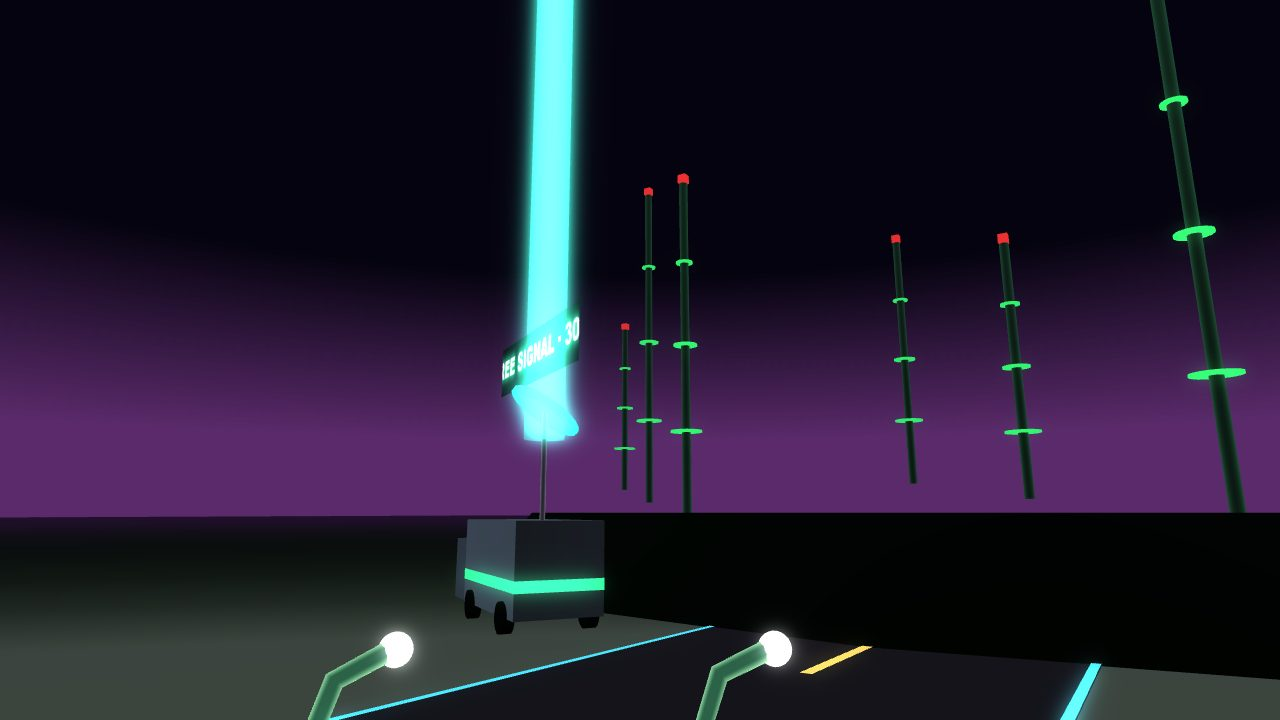
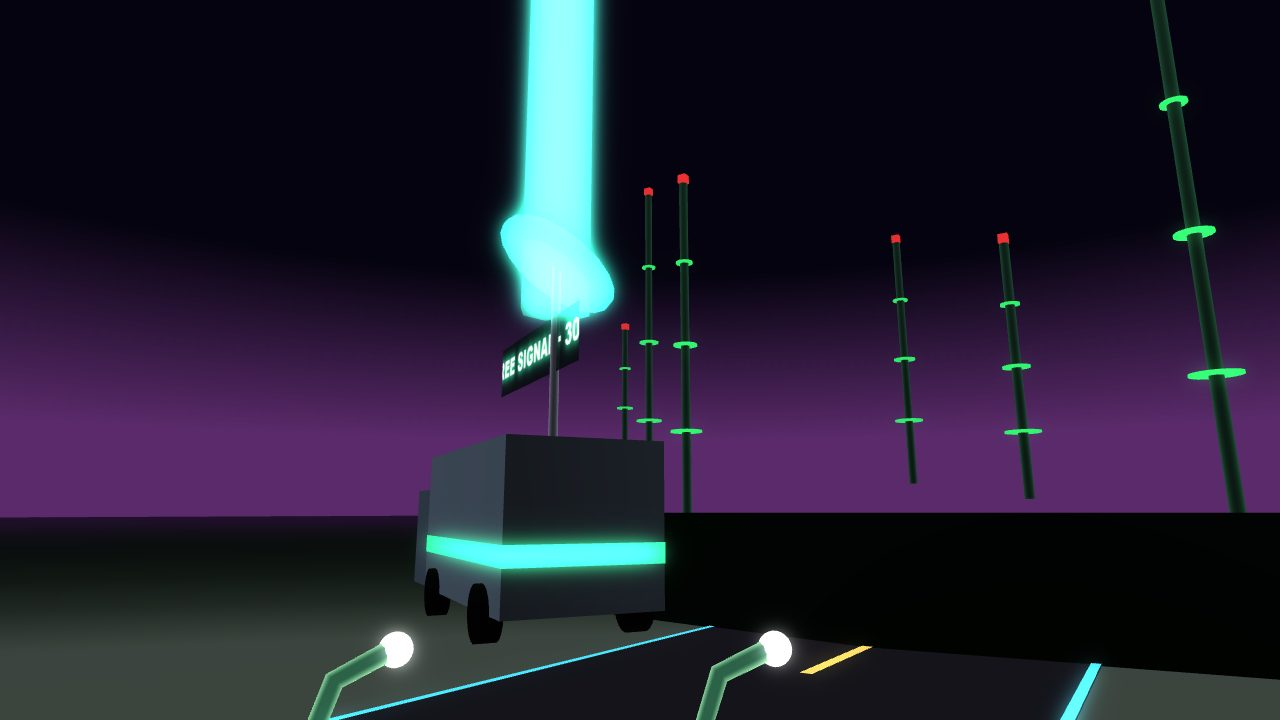
Levels built from phrases: open, builds, the choice, rests, peaks, the return and the finale, each with variants; length and difficulty grow gently with the campaign (early worlds rest more, later ones build longer and reach the harder set pieces); fork, both gates and finale always present. New roa

Changed region(s): [[0.3125, 0.0, 0.5312, 0.9167]]

diff --git a/web/babylon/director.js b/web/babylon/director.js
@@ -68,27 +68,35 @@ const KEYABLE = ['WINGS', 'MAGNET', 'SHIELD', 'SPEED', 'LENS'];          // keys
 /* the level's script: an ordered list of beats the game's level script builds one after another.
    kinds: warm, speed, threat, breath, mix, pressure, lensbreath, gearpair, finale (the game's own sections), set {id}, fork {a, b}, key {need} */
 export function planPlay({ seed, lvIdx, setTiers, plainSets, hardSets }) {
-  const R = rng(seed ^ 0xd1ec), pick = (a) => a[Math.floor(R() * a.length)], usedSets = new Set();
-  const setOf = (pool) => { const free = pool.filter((id) => !usedSets.has(id) && (setTiers[id] ?? 0) <= lvIdx); const id = free.length ? pick(free) : pick(pool); usedSets.add(id); return { k: 'set', id }; };
-  const keys = KEYABLE.filter((n) => (GATETIER[n] || 0) <= Math.max(1, lvIdx)), shuffled = keys.slice().sort(() => R() - .5);
+  /* PHRASES (owner 2026-11-27: "use phrases for paths, procedurally generated"; the old fixed 17-beat template made every level feel the same).
+     A level is an arc of phrases: OPEN, then BUILDs, a CHOICE (the fork and its first gate), RESTs between, a PEAK or two, the RETURN (the second gate)
+     and the FINALE. Each phrase has several variants; which ones, how many and in what order come from the seed. Early worlds rest more and get the
+     plain set pieces; later worlds build longer and get the harder ones, never brutal (it's meant to be relaxing). The fork, both gates and the finale always come. */
+  const R = rng(seed ^ 0xd1ec), pick = (a) => a[Math.floor(R() * a.length)], usedSets = new Set(), L = Math.max(0, Math.min(7, lvIdx)), hardK = L / 7;
+  const setOf = (pool) => { const free = pool.filter((id) => !usedSets.has(id) && (setTiers[id] ?? 0) <= Math.max(1, L)); const id = free.length ? pick(free) : pick(pool); usedSets.add(id); return { k: 'set', id }; };
+  const keys = KEYABLE.filter((n) => (GATETIER[n] || 0) <= Math.max(1, L)), shuffled = keys.slice().sort(() => R() - .5);
   const [ka, kb] = shuffled.length >= 2 ? shuffled : ['SPEED', 'WINGS'];
-  const late = Object.keys(GATESET).filter((n) => n !== ka && n !== kb && (GATETIER[n] || 0) <= Math.max(1, lvIdx)); const kc = late.length ? pick(late) : null;
+  const late = Object.keys(GATESET).filter((n) => n !== ka && n !== kb && (GATETIER[n] || 0) <= Math.max(1, L)); const kc = L >= 1 && late.length ? pick(late) : null;
+  const plainOrHard = () => setOf(R() < .25 + .5 * hardK ? hardSets : plainSets);
+  const PH = {
+    open: [() => [{ k: 'warm' }, setOf(plainSets)], () => [{ k: 'warm' }, { k: 'speed' }], () => [{ k: 'warm' }, { k: 'breath' }, setOf(plainSets)]],
+    build: [() => [{ k: 'speed' }, plainOrHard()], () => [{ k: 'threat' }, { k: 'mix' }], () => [{ k: 'mix' }, plainOrHard()], () => [plainOrHard(), { k: 'threat' }], () => [{ k: 'speed' }, { k: 'threat' }, plainOrHard()]],
+    rest: [() => [{ k: 'breath' }], () => [{ k: 'lensbreath' }], () => [{ k: 'breath' }, { k: 'lensbreath' }]],
+    peak: [() => [{ k: 'pressure' }, setOf(hardSets)], () => [setOf(hardSets), { k: 'gearpair' }], () => [{ k: 'pressure' }, { k: 'gearpair' }], () => [setOf(L >= 2 ? hardSets.concat(['remix']) : hardSets)]],
+  };
+  const take = (name) => pick(PH[name])();
   const S = [];
-  S.push({ k: 'warm' });
-  S.push(setOf(plainSets));
-  S.push({ k: R() < .5 ? 'speed' : 'threat' });
+  S.push(...take('open'));
+  const builds1 = 1 + (L >= 3 ? 1 : 0) + (R() < .3 ? 1 : 0); for (let i = 0; i < builds1; i++) { S.push(...take('build')); if (L <= 2 || R() < .45) S.push(...take('rest')); }
   S.push({ k: 'fork', a: ka, b: kb });                                   // the choice
-  S.push({ k: 'set', id: GATESET[R() < .5 ? ka : kb], gate: true });    // the first of its two gates comes soon
-  S.push({ k: 'breath' });
-  S.push({ k: R() < .5 ? 'mix' : 'threat' });
-  S.push(setOf(lvIdx >= 2 && R() < .5 ? ['remix'] : plainSets));
-  S.push({ k: 'pressure' });
-  const first = S.find((b) => b.gate).id, second = GATESET[first === GATESET[ka] ? kb : ka]; S.push({ k: 'set', id: second, gate: true });   // and the other gate: the key you left behind
-  S.push({ k: 'lensbreath' });
-  if (kc) { if (KEYABLE.includes(kc) && R() < .7) S.push({ k: 'key', need: kc, side: R() < .5 ? -1 : 1 }); S.push(setOf(hardSets)); S.push({ k: 'set', id: GATESET[kc], gate: true }); }
-  else S.push(setOf(hardSets));
-  S.push({ k: 'gearpair' });
-  S.push(setOf(hardSets.concat(lvIdx >= 2 ? ['remix'] : [])));
+  S.push({ k: 'set', id: GATESET[R() < .5 ? ka : kb], gate: true });    // its first gate comes soon
+  S.push(...take('rest'));
+  const builds2 = 1 + (L >= 4 ? 1 : 0); for (let i = 0; i < builds2; i++) S.push(...take(R() < .35 + .4 * hardK ? 'peak' : 'build'));
+  if (L <= 3 || R() < .5) S.push(...take('rest'));
+  const first = S.find((b) => b.gate).id, second = GATESET[first === GATESET[ka] ? kb : ka]; S.push({ k: 'set', id: second, gate: true });   // the return: the key you left behind
+  if (kc) { if (KEYABLE.includes(kc) && R() < .7) S.push({ k: 'key', need: kc, side: R() < .5 ? -1 : 1 }); S.push(...take('build')); S.push({ k: 'set', id: GATESET[kc], gate: true }); }
+  S.push(...take('rest'));
+  S.push(...take('peak'));
   S.push({ k: 'finale' });
   return { beats: S, keys: [ka, kb], late: kc };
 }

diff --git a/web/babylon/sets.js b/web/babylon/sets.js
@@ -50,7 +50,7 @@
       sign(3, 1, [-3.5, 9.3, 2], (g, w, h) => { g.fillStyle = '#000'; g.fillRect(0, 0, w, h); neon(g, '● ON AIR', w / 2, h / 2, 34, '#ff3040'); }); return { h: 20, w: 40 }; },
     /* SUGARFALL: the Comfort Belt. A row of rented pastel houses at 4 pm, a picket fence, the laugh-track tower and a billboard that never changes. */
     comfort(B, scene, R) { const { mat, box, cyl, sign, neon } = kit(B, scene, R); const P = [[1, .72, .82], [.72, .9, 1], [.8, 1, .8], [1, .92, .66], [.88, .78, 1]];
-      for (let i = 0; i < 5; i++) { const x = -22 + i * 9, c = P[i]; box(7, 4.5, 6, [x, 2.25, 6], c); cyl(7.4, 6.4, [x, 5.6, 6], [c[0] * .7, c[1] * .55, c[2] * .65], null, [0, 0, Math.PI / 2], 0, 3);
+      for (let i = 0; i < 5; i++) { const x = -22 + i * 9, c = P[i]; box(7, 4.5, 6, [x, 2.25, 6], c); { const rc = [c[0] * .62, c[1] * .45, c[2] * .55]; box(4.3, .28, 6.8, [x - 1.75, 5.6, 6], rc, null, [0, 0, .62]); box(4.3, .28, 6.8, [x + 1.75, 5.6, 6], rc, null, [0, 0, -.62]); box(.9, 1.6, .9, [x + 2, 6.6, 7], [.75, .7, .7]); }          /* (gable roofs and a chimney, instead of the blocky prism) */
         box(1.2, 2, .1, [x, 1, 2.95], [.45, .3, .25]); box(1.6, 1.2, .1, [x - 2.2, 2.6, 2.95], [1, .95, .7], 'glow'); box(1.6, 1.2, .1, [x + 2.2, 2.6, 2.95], [1, .95, .7], 'glow'); }
       for (let i = 0; i < 46; i++) box(.18, 1, .08, [-26 + i, .5, 1.6], [1, 1, 1]); box(46, .12, .08, [-3.5, .8, 1.6], [1, 1, 1]);
       for (const x of [-27, 20]) { cyl(4, .3, [x, 2, -1], [1, 1, 1]); const pop = B.MeshBuilder.CreateSphere('pop', { diameter: 2.6, segments: 16 }, scene); pop.parent = R; pop.position.set(x, 4.8, -1); pop.material = mat([1, .4, .7], 'glow'); }
@@ -79,7 +79,7 @@
     /* COLD RACK: Free Signal. Mast Hill's relay masts in rows, and WREN's pirate van on the ridge throwing an unfiltered beam into the sky. */
     signal(B, scene, R) { const { box, cyl, sign, neon } = kit(B, scene, R); const MAST = [.3, .5, .4], G = [.2, 1, .45];
       cyl(18, 90, [0, -6, 40], [.04, .12, .06], null, null, 60); for (let i = 0; i < 9; i++) { const x = -32 + i * 8, z = 26 + (i % 3) * 8, h = 14 + (i % 4) * 3, y = 2.5 + (i % 3) * 1.2; cyl(h, .5, [x, y + h / 2, z], MAST); for (let k = 1; k < 4; k++) cyl(.12, 2.2 - k * .4, [x, y + h * k / 4, z], G, 'glow'); box(.5, .5, .5, [x, y + h + .3, z], [1, .2, .2], 'glow'); }
-      const V = new B.TransformNode('van', scene); V.parent = R; V.position.set(9, 0, 6); V.rotation.y = -.5; const vk = kit(B, scene, V); vk.box(5, 2.4, 2.4, [0, 1.6, 0], [.42, .46, .5]); vk.box(1.6, 1.8, 2.3, [3.1, 1.3, 0], [.36, .4, .44]); vk.box(5.02, .3, 2.42, [0, 1.2, 0], [.2, 1, .6], 'glow'); for (const [x, z] of [[1.6, 1.15], [-1.6, 1.15], [1.6, -1.15], [-1.6, -1.15]]) vk.cyl(.3, .8, [x, .4, z], [.05, .05, .06], null, [Math.PI / 2, 0, 0]);
+      const V = new B.TransformNode('van', scene); V.parent = R; V.position.set(9, 0, 6); V.rotation.y = -.5; V.scaling.setAll(1.7);          /* (bigger: it was lost in the masts) */ const vk = kit(B, scene, V); vk.box(5, 2.4, 2.4, [0, 1.6, 0], [.42, .46, .5]); vk.box(1.6, 1.8, 2.3, [3.1, 1.3, 0], [.36, .4, .44]); vk.box(5.02, .3, 2.42, [0, 1.2, 0], [.2, 1, .6], 'glow'); for (const [x, z] of [[1.6, 1.15], [-1.6, 1.15], [1.6, -1.15], [-1.6, -1.15]]) vk.cyl(.3, .8, [x, .4, z], [.05, .05, .06], null, [Math.PI / 2, 0, 0]);
       vk.cyl(3, .15, [-1, 4.3, 0], [.6, .6, .65]); vk.cyl(.1, 2.2, [-1, 5.8, 0], [.2, 1, .8], 'glow', [.6, 0, 0]); const bm = vk.cyl(60, 1.2, [-1, 35, 0], [.3, 1, .85], 'glow', null, null, 8); bm.material.alpha = .35;
       vk.box(1.6, .6, .05, [3.92, 1.6, 0], [.3, 1, .8], 'glow', [0, Math.PI / 2, 0]);
       sign(7, 1.6, [9, 7.6, 6], (g, w, h) => { g.fillStyle = 'rgba(0,10,6,.8)'; g.fillRect(0, 0, w, h); neon(g, 'FREE SIGNAL · 30 S', w / 2, h / 2, 52, '#3affb5'); }, [0, -.5, 0]); return { h: 40, w: 70 }; },

diff --git a/web/babylon/index.html b/web/babylon/index.html
@@ -55,7 +55,7 @@ import { createIntro } from './intro.js?v=20261127c';          /* (bump on every
 import { createSets } from './chains.js?v=20261127c';
 import { createSpiders } from './spiders.js?v=20261127j';
 import { createBeasts } from './beasts.js?v=20261127g';
-import { planRoad, planPlay, findTunnel, seedOf } from './director.js';
+import { planRoad, planPlay, findTunnel, seedOf } from './director.js?v=20261127b';
 import { joinCost, rowOffsets, assemble, moveHeavy } from '../downhill-three/trip_compose.mjs';
 import { createPsyFx } from '../downhill-three/psyfx.js';
 import { createPostFx, toGLSLPost } from '../downhill-three/postfx.js';
@@ -134,7 +134,7 @@ const sstep = (a, b, x) => { const t = Math.max(0, Math.min(1, (x - a) / (b - a)
   const cam = new B.FreeCamera('cam', new B.Vector3(0, 3, 0), scene); cam.minZ = .2; cam.maxZ = 1800; cam.fov = 1.2; cam.inputs.clear(); scene.activeCamera = cam;
   say('loading the course (' + NROWS + ' rows)...'); try { __LDR.to(.12); } catch (e) { }
   const COMPOSE = COMPOSE0;
-  const LSEED = seedOf(WORLD0 + ':' + (Q.get('seed') || 'v1'));
+  const LSEED = seedOf(WORLD0 + ':' + (Q.get('seed') || ('d' + new Date().toISOString().slice(0, 10))));          /* (owner 2026-11-27: a new road and a new arc of phrases every day; the same all day so a run can be retried; ?seed= pins one) */
   let meta = null, phys = null, rows = [];
   if (COMPOSE) try {
     const BK = '../downhill-three/data/', getJ = (p) => fetch(BK + p).then((r) => { if (!r.ok) throw new Error(p + ' ' + r.status); return r.json(); });

diff --git a/web/babylon/guide2.html b/web/babylon/guide2.html
@@ -305,7 +305,7 @@ const sec = (h, inner) => inner ? '<div class="sec"><h4>' + h + '</h4>' + inner 
 const CX = window.AGCODEX || { E: {}, X: {}, K: {} };
 document.getElementById('toc').innerHTML = D.map((d) => '<a href="#' + d.w + '">' + esc(d.name) + '</a>').join('');
 document.getElementById('dests').innerHTML = D.map((d) => {
-  const hero = 'guide/hero-' + d.w + '.jpg?v=2';
+  const hero = 'guide/hero-' + d.w + '.jpg?v=3';
   const wild = d.wild.map(([n, t, s]) => { const img = n === '__skit' ? 'guide/hero-skitters.jpg' : P(n); return row(thImg(img), t, s, 0, '', { t, w: d, e: CX.E[t], img, line: s }); }).join('');
   const air = row(thImg('guide/hero-raid-' + d.w + '.jpg'), d.air[0], d.air[1], 0, '', { t: d.air[0], w: d, e: CX.E[d.air[0]], line: d.air[1] });
   const fl = d.flora ? row(thPlant(d.flora[0]), d.flora[1], d.flora[2].split(':')[0], 0, '', { t: d.flora[1], w: d, e: CX.E[d.flora[1]], line: d.flora[2] }) : '';
